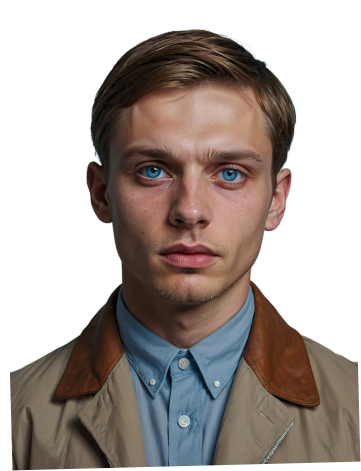
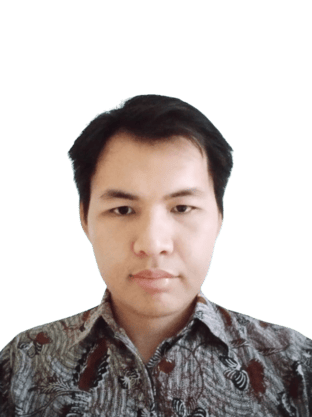
change profile picture

diff --git a/src/app/home/partials/hero.tsx b/src/app/home/partials/hero.tsx
@@ -66,16 +66,16 @@ const Hero = () => {
       <TitleMotion className='md:absolute md:top-0 md:right-0'>
         <div className='relative'>
           {/* Shadow Layer */}
-          <div className='absolute bottom-0 left-0 z-10 h-full w-full bg-[linear-gradient(180deg,rgba(0,0,0,0)_-92.59%,#000000_88.93%)]' />
+          <div className='absolute bottom-0 left-0 z-10 h-full w-full bg-[linear-gradient(180deg,rgba(0,0,0,0)_-92.59%,#000000_80%)]' />
           {/* Half green background */}
-          <div className='bg-primary-200 absolute bottom-0 left-1/2 h-full w-1/2' />
+          <div className='bg-primary-200/70 absolute bottom-0 left-1/2 h-full w-1/2' />
           {/* Image */}
           <Image
             alt='/profile-picture.png'
             src='/image/profile-picture.png'
             width={358}
             height={461}
-            className='relative mx-auto mb-10 pr-3 mix-blend-luminosity grayscale md:mb-0 md:h-[872px] md:w-[658px] md:pr-8'
+            className='relative mx-auto mb-10 pb-20 mix-blend-luminosity grayscale md:mb-0 md:h-[872px] md:w-[658px] md:pr-8 md:pl-10'
           />
           {/* Profile Content */}
           <div className='absolute inset-x-5 -bottom-10 z-20 flex flex-col gap-2 rounded-2xl border border-neutral-800 bg-black p-4 md:bottom-[84px] md:mx-auto md:max-w-[316px]'>

diff --git a/src/app/home/partials/contact-me.tsx b/src/app/home/partials/contact-me.tsx
@@ -95,7 +95,7 @@ const ContactMe = () => {
           alt='profile-picture'
           height={461}
           width={348}
-          className='mx-auto w-[555px] min-w-[348px] mix-blend-luminosity grayscale md:w-[420px]'
+          className='mx-auto w-[555px] min-w-[348px] mix-blend-luminosity grayscale md:w-[420px] md:pb-10'
         />
 
         {/* Shadow overlay */}
